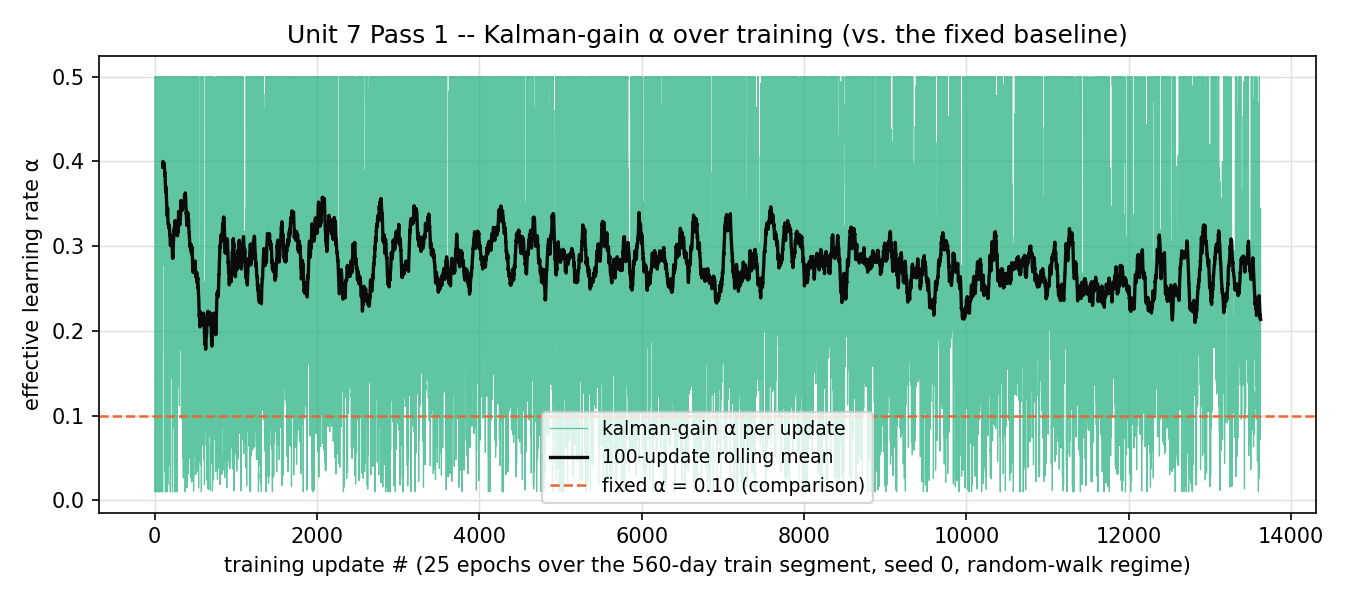
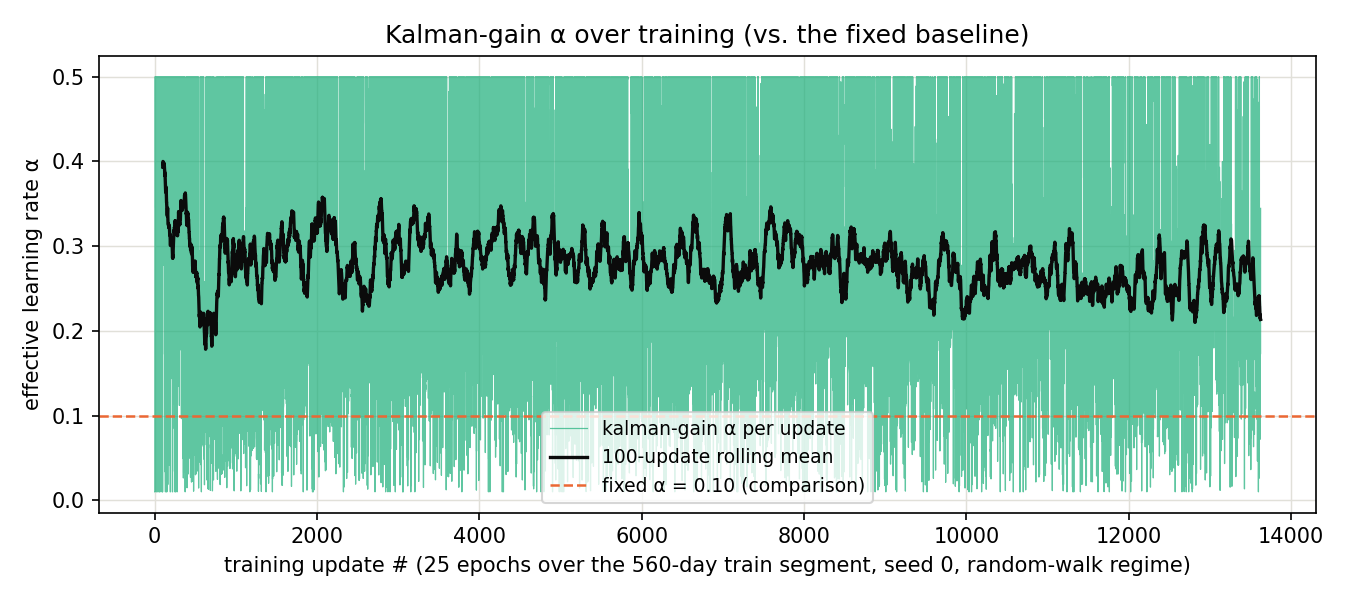
De-jargon the repo's public-facing surface
"Unit N" was internal study-track shorthand with no meaning to an outside reader.

- Front-page README: added a featured section linking to microstructure-research/ (it wasn't discoverable at all before) and dropped the assumption that a viewer knows what "Unit 5" means.
- microstructure-research/README.md: section headers now describe content (OFI signal research / RL trading agent) instead of "Unit 6" / "Unit 7".
- Root file Unit5_Summary.pdf -> execution_research_summary.pdf, matching the naming used everywhere else in the repo.
- Regenerated the 5 unit7 chart PNGs whose titles were literally rendered as "Unit 7 Pass N" text baked into the image; numbers are unchanged, only the titles.

Left as-is: internal code folder/module names (unit6/, unit7/, unit7_core.py, etc.) and in-code docstrings/comments. Those are normal internal organization, explained by the README once a reader gets there, and renaming them risks breaking the cross-imports between the scripts for no reader-facing benefit.

Changed region(s): [[0.2178, 0.03, 0.84, 0.09]]

diff --git a/microstructure-research/unit7/unit7_plots.py b/microstructure-research/unit7/unit7_plots.py
@@ -31,7 +31,7 @@ for ax, regime in zip(axes, REGIMES):
     ax.set_ylabel("test-segment cum. return, %  (95% CI)" if regime == REGIMES[0] else "")
     ax.grid(axis="y", color="#e1e0d9", linewidth=0.7, zorder=0)
     ax.set_axisbelow(True)
-fig.suptitle("Unit 7 Pass 1 -- out-of-sample return by strategy, three synthetic regimes", fontsize=12)
+fig.suptitle("Out-of-sample return by strategy, three synthetic regimes (baseline pass, before real-data testing)", fontsize=12)
 fig.tight_layout(rect=[0, 0, 1, 0.94])
 fig.savefig("unit7_regime_comparison.png", dpi=150)
 print("wrote unit7_regime_comparison.png")
@@ -58,7 +58,7 @@ ax2.plot(roll, color="#0b0b0b", linewidth=1.6, label=f"{window}-update rolling m
 ax2.axhline(0.10, color="#eb6834", linewidth=1.2, linestyle="--", label="fixed α = 0.10 (comparison)")
 ax2.set_xlabel("training update # (25 epochs over the 560-day train segment, seed 0, random-walk regime)")
 ax2.set_ylabel("effective learning rate α")
-ax2.set_title("Unit 7 Pass 1 -- Kalman-gain α over training (vs. the fixed baseline)")
+ax2.set_title("Kalman-gain α over training (vs. the fixed baseline)")
 ax2.legend(fontsize=9)
 ax2.grid(color="#e1e0d9", linewidth=0.7)
 ax2.set_axisbelow(True)

diff --git a/microstructure-research/unit7/unit7_watch_trade.py b/microstructure-research/unit7/unit7_watch_trade.py
@@ -89,7 +89,7 @@ if __name__ == "__main__":
     ax.axhline(0, color="#0b0b0b", linewidth=0.8)
     ax.set_xlabel("test-segment minute index (≈ 11,225 minutes ≈ 7.8 days)")
     ax.set_ylabel("cumulative return, %")
-    ax.set_title("Unit 7 -- real BTCUSDT test period, frictionless (cost=0) demonstration regime\n"
+    ax.set_title("Real BTCUSDT test period, frictionless (cost=0) demonstration regime\n"
                  "NOT tradeable at realistic Binance fees (7.5-10bps) -- see unit7_diagnose.py for why")
     ax.legend(fontsize=9)
     ax.grid(color="#e1e0d9", linewidth=0.7); ax.set_axisbelow(True)
@@ -119,7 +119,7 @@ if __name__ == "__main__":
                                        gridspec_kw={"height_ratios": [1.3, 1]})
     axp.plot(range(window), price[sl], color="#0b0b0b", linewidth=1.1)
     axp.set_ylabel("BTCUSDT close, $")
-    axp.set_title(f"Unit 7 -- zoomed window (test minutes {best_start}-{best_start+window}), "
+    axp.set_title(f"Zoomed window (test minutes {best_start}-{best_start+window}), "
                  f"frictionless regime: watch them actually trade")
     axp.grid(color="#e1e0d9", linewidth=0.7); axp.set_axisbelow(True)
 

diff --git a/microstructure-research/unit7/unit7_real_btc_summary.py b/microstructure-research/unit7/unit7_real_btc_summary.py
@@ -47,8 +47,8 @@ for strat, color in COLORS.items():
 ax.axhline(0, color="#0b0b0b", linewidth=0.8)
 ax.set_xlabel("assumed turnover cost, bps per unit of |Δposition|")
 ax.set_ylabel("test-segment cumulative return, %")
-ax.set_title("Unit 7 Pass 2 -- real BTCUSDT, out-of-sample return vs. assumed trading cost\n"
-             "(26-day data, same test window as Unit 6 Pass 5; real 1-min std ≈ 5bps)")
+ax.set_title("Real BTCUSDT, out-of-sample return vs. assumed trading cost\n"
+             "(26-day data, same walk-forward test window as the OFI study; real 1-min std ≈ 5bps)")
 ax.axvline(5, color="#c3c2b7", linestyle=":", linewidth=1)
 ax.annotate("~1-min return std (5bps)", xy=(5, ax.get_ylim()[0]), xytext=(5.5, ax.get_ylim()[0]*0.9),
             fontsize=8, color="#52514e")

diff --git a/microstructure-research/README.md b/microstructure-research/README.md
@@ -1,12 +1,12 @@
-# Market Microstructure & RL Trading Research (Units 6-7)
+# Market Microstructure & RL Trading Research
 
 Two connected research questions on real market data: does order-flow imbalance (OFI) predict
-short-horizon returns (Unit 6), and can a reinforcement-learning agent exploit it once realistic
-transaction costs are included (Unit 7)? Both are answered with real trade-level data, walk-forward
+short-horizon returns, and can a reinforcement-learning agent exploit it once realistic
+transaction costs are included? Both are answered with real trade-level data, walk-forward
 discipline, and — where an initial result turned out to be fragile — an explicit correction rather
 than a quiet redo.
 
-## Unit 6 — Order-flow imbalance (OFI)
+## Order-flow imbalance (OFI)
 
 **Question:** does the relative volume of aggressive buys vs. sells in the last minute predict the
 next minute's return?
@@ -32,7 +32,7 @@ self-caught statistical bug, and one purpose-built resolving test at 4x the data
 test), plus matching `chart_*.py` scripts. **Results:** `unit6/results/` — regression tables,
 decile analysis, and the charts referenced in the PDF.
 
-## Unit 7 — Can an RL agent trade this, net of real costs?
+## Can an RL agent trade this, net of real costs?
 
 **Question:** if OFI has any exploitable structure at all, does a tabular Q-learning agent, trained
 and tested walk-forward on the same real data, turn it into a strategy that survives Binance's
@@ -42,8 +42,9 @@ actual trading fees?
 random seed.**
 
 1. **Design & baseline** (fixed-α vs. Kalman-style adaptive-α Q-learning; 27-state, 3-action) —
-   benchmarked on Unit 5's own backtester/cost model, first on synthetic regimes, then corrected
-   to the real BTCUSDT data once flagged that the synthetic pass wasn't the actual target.
+   benchmarked on the same backtester/cost model as the [execution cost research](../execution-research/),
+   first on synthetic regimes, then corrected to the real BTCUSDT data once flagged that the
+   synthetic pass wasn't the actual target.
 2. **Real BTCUSDT, cost sweep (0/4/15bps):** at any realistic cost, both Q-learning variants
    unanimously return exactly 0.00%, across 20 training seeds.
 3. **Mechanism, in the literal Q-table:** entry cost (7.5-10bps, Binance's live fee schedule) is
@@ -64,7 +65,7 @@ train/test on real BTC), `unit7_diagnose.py` (the literal Q-table mechanism chec
 `unit7_multiscale.py` (1-60min horizon sweep), `unit7_watch_trade.py` (frictionless behavioral
 demonstration), `unit7_breadth.py` / `unit7_breadth_multiseed.py` (the 9-asset breadth test and its
 multi-seed resolution). `pull_and_bucket.py` and the original single-symbol `bucket_trades.py`
-(both one level up, alongside the shared `btc_1min_ofi.csv` dataset both units train/test on) pull
+(both one level up, alongside the shared `btc_1min_ofi.csv` dataset both studies train/test on) pull
 and bucket real Binance trade data for any set of symbols — run `pull_and_bucket.py` yourself to
 regenerate the per-minute data; raw daily dumps and the 8-symbol breadth-test CSVs are not committed
 here, only results, to keep this repo lean and reproducible from source. **Results:**
@@ -76,4 +77,4 @@ Every "0.00%" or "zero activity" result above is a *correct, structural* answer 
 cost assumption (Binance's real published fee schedule) — not a bug, and checked mechanistically
 each time rather than asserted. Frictionless (cost=0) numbers appear only as signal-existence /
 mechanism checks, explicitly never as a tradability claim. This distinction is enforced consistently
-across both units.
+across both studies.

diff --git a/README.md b/README.md
@@ -41,6 +41,19 @@ Real daily returns have autocorrelation ~0.00 — markets are approximately rand
 walks in *direction*; their structure is in volatility and volume. The strategy
 beat buy-and-hold on **0 of 12** real stock/window combinations.
 
+## [→ Market Microstructure & RL Trading](microstructure-research/)
+
+Does order-flow imbalance (the relative volume of aggressive buys vs. sells in the
+last minute) predict the next minute's return, and can a reinforcement-learning
+agent turn any such edge into a strategy that survives real trading fees? Five
+rounds of testing on real Binance trade-level data (up to 26 days, 24M trades) —
+including a self-caught standard-error bug that reversed the conclusion twice —
+land on **no validated signal, and no profitable strategy net of realistic costs
+(7.5-10bps), checked across 9 assets and confirmed robust to random training seed.**
+
+> A Q-learning agent that correctly refuses to trade because the cost outweighs a
+> noisy signal is a working answer, not a failed one.
+
 ## Supporting work
 
 | Directory | What it contains |
